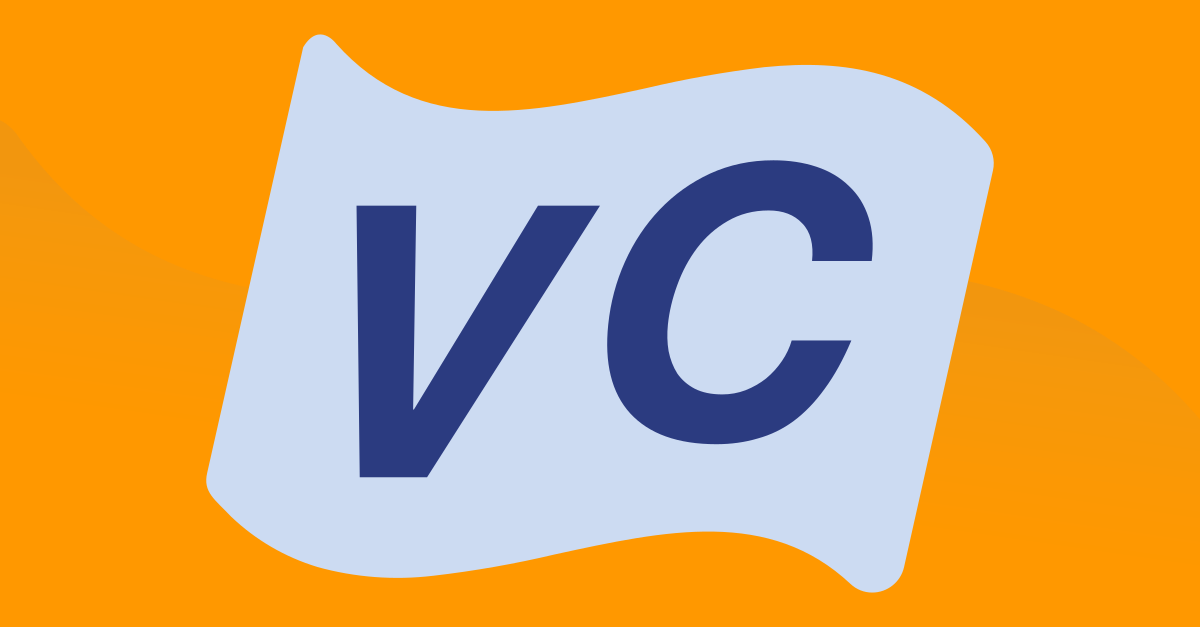
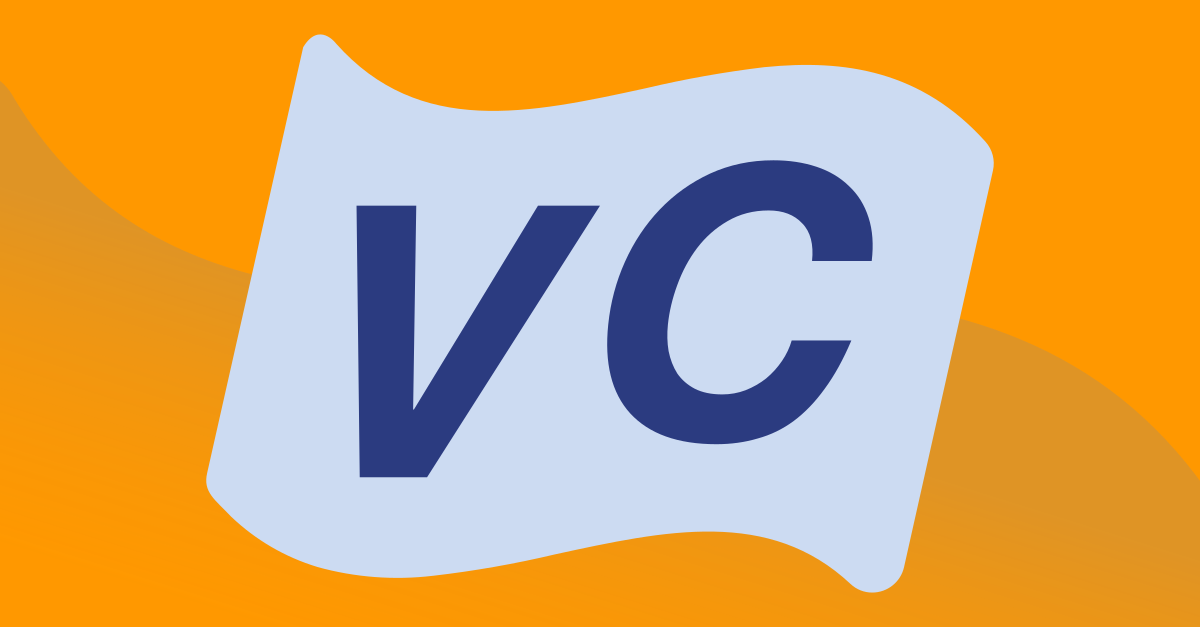
previewImage update

Changed region(s): [[0.74, 0.5455, 1.0, 1.0], [0.0, 0.1212, 0.2158, 0.4545]]

diff --git a/index.html b/index.html
@@ -9,7 +9,7 @@
     <link rel="mask-icon" href="static/safari-pinned-tab.svg" color="#5bbad5">
     <link rel="stylesheet" href="https://fonts.googleapis.com/icon?family=Material+Icons">
     <meta property="og:title" content="The Voter's Companion (beta)"/>
-    <meta property="og:image" content="https://i.imgur.com/XudNloX.png"/>
+    <meta property="og:image" content="https://i.imgur.com/DNER7LH.png"/>
     <meta property="og:site_name" content="The Voter's Companion"/>
     <meta property="og:description" content="A guide to registering, getting to know your representatives, and when and where to vote."/>
     <meta name="apple-mobile-web-app-title" content="The Voter's Companion">
